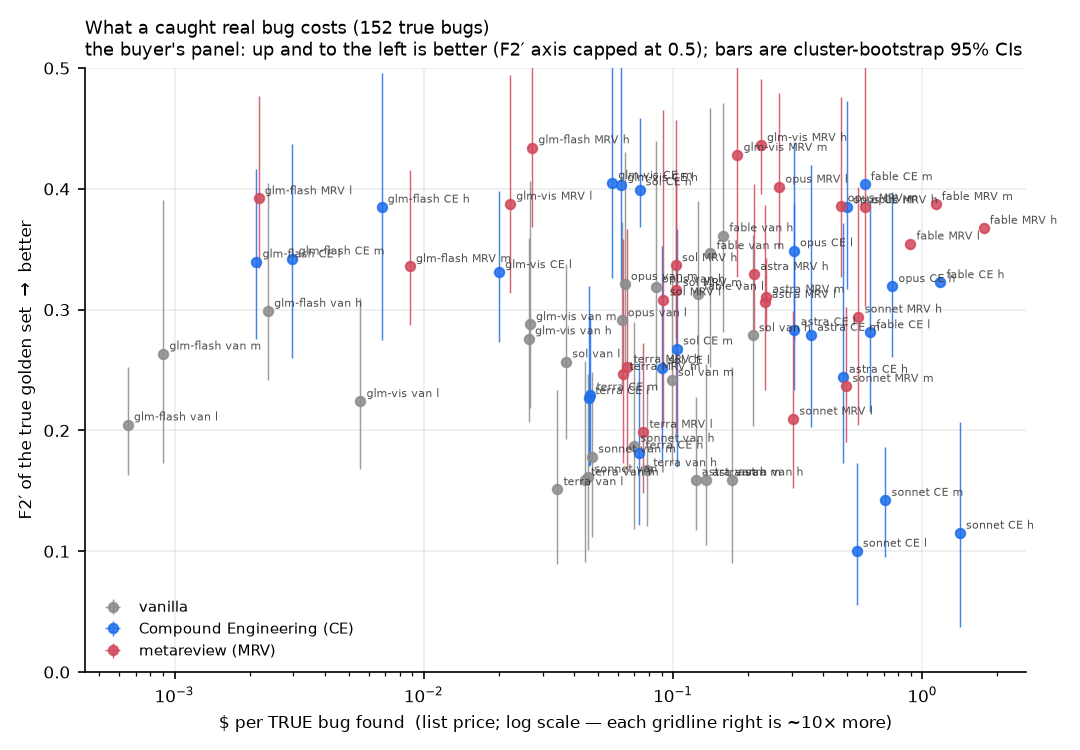
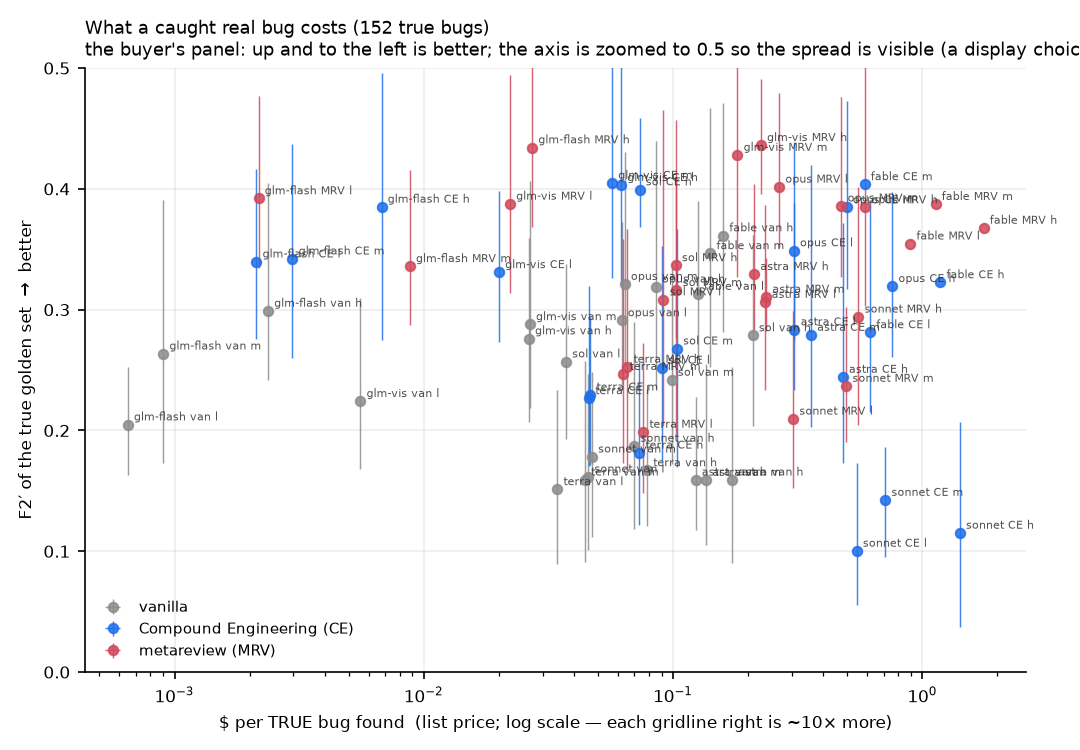
reword the 0.5 axis cap as a zoom, in benefit-oriented language
The old sentence ('the axis is capped at 0.5 because no cell comes close') read as though the tools are bad
and as though 0.5 were a limit on the score. Restated in the dashboard (1a and panel 2) and in the two
reader-facing figure titles: the axis is zoomed to 0.5 so the points spread out instead of being squashed
into the bottom third of a 0-to-1 scale - a display choice, not a limit; 1.0 would mean catching all 152 real
bugs with no noise, and the best setup reaches 0.44, which is the best of a deliberately hard field (the 152
come from every bug the whole campaign found, not from what a single review could be expected to catch).

Verified: no 'capped at 0.5' phrasing remains in the dashboard or figure titles.

Changed region(s): [[0.4583, 0.0307, 1.0, 0.092]]

diff --git a/analysis/figures/interactive_dashboard.html b/analysis/figures/interactive_dashboard.html
@@ -83,7 +83,11 @@
       <b>finding real bugs</b> and penalises it for <b>noise</b>. "Real bugs" = the true golden set: 42 Martian
       goldens + 110 defects we verified by hand (152 total). "Noise" = claims the adjudicator rejected, plus
       nitpicks. A <b>missed bug counts 4× as much as a false alarm</b>, which is why the score is <b>F2′</b> and
-      not the more familiar F1. Higher is better; the axis is capped at 0.5 because no cell comes close.
+      not the more familiar F1. <b>Higher is better, and the chart is zoomed in so you can actually see the differences.</b> The y-axis
+      stops at 0.5 so the points spread out, instead of being squashed into the bottom third of a 0-to-1 scale —
+      it is a zoom level, not a limit on the score. A 1.0 would mean catching all 152 real bugs and raising no
+      noise at all; the best setup here reaches 0.44, which is the best of a deliberately hard field (the 152
+      come from every bug the whole campaign found, not from what one review could be expected to catch).
       Plain-language definition: REPORT_FINAL §10d.<br>
       x = metered $ per PR review (log) — how much a single review costs. One point per cell (66 complete top-6
       cells). Color = model; shape = harness (○ van, □ CE, △ MRV). <b>Hover</b> for the value + CI; <b>click</b> a point for the full cell card below; <b>double-click</b> a legend entry to isolate a model. CIs off by default.</div>
@@ -140,7 +144,7 @@
 
   <div class="panel">
     <h2>2 · Effort ladder — quality vs cost as effort rises</h2>
-    <div class="note">One line per model (color) with points at low → medium → high (left to right); when <b>All harnesses</b> is selected, marker shape distinguishes the harness (○ vanilla, □ Compound Engineering (ce), △ metareview (mrv)). Up and to the left is better: the higher a point sits, the better its F2′ (recall weighted 4:1 over the true golden set) and the further left the cheaper it is per run. The y-axis is capped at 0.5 so the spread is readable. (The x-axis is logarithmic: each gridline to the right costs roughly 10× more.) Hover points for details.</div>
+    <div class="note">One line per model (color) with points at low → medium → high (left to right); when <b>All harnesses</b> is selected, marker shape distinguishes the harness (○ vanilla, □ Compound Engineering (ce), △ metareview (mrv)). Up and to the left is better: the higher a point sits, the better its F2′ (recall weighted 4:1 over the true golden set) and the further left the cheaper it is per run. The y-axis is zoomed to 0.5 so the differences between setups are visible — a zoom, not a limit: a perfect 1.0 would mean catching all 152 real bugs with no noise, and the best setup reaches 0.44. (The x-axis is logarithmic: each gridline to the right costs roughly 10× more.) Hover points for details.</div>
     <div class="controls"><label>harness <select id="fwsel"></select></label></div>
     <div id="chart2"></div>
   </div>

diff --git a/tools/final_report_html.py b/tools/final_report_html.py
@@ -227,7 +227,11 @@ HTML = """<!DOCTYPE html>
       <b>finding real bugs</b> and penalises it for <b>noise</b>. "Real bugs" = the true golden set: 42 Martian
       goldens + 110 defects we verified by hand (152 total). "Noise" = claims the adjudicator rejected, plus
       nitpicks. A <b>missed bug counts 4× as much as a false alarm</b>, which is why the score is <b>F2′</b> and
-      not the more familiar F1. Higher is better; the axis is capped at 0.5 because no cell comes close.
+      not the more familiar F1. <b>Higher is better, and the chart is zoomed in so you can actually see the differences.</b> The y-axis
+      stops at 0.5 so the points spread out, instead of being squashed into the bottom third of a 0-to-1 scale —
+      it is a zoom level, not a limit on the score. A 1.0 would mean catching all 152 real bugs and raising no
+      noise at all; the best setup here reaches 0.44, which is the best of a deliberately hard field (the 152
+      come from every bug the whole campaign found, not from what one review could be expected to catch).
       Plain-language definition: REPORT_FINAL §10d.<br>
       x = metered $ per PR review (log) — how much a single review costs. One point per cell (66 complete top-6
       cells). Color = model; shape = harness (○ van, □ CE, △ MRV). <b>Hover</b> for the value + CI; <b>click</b> a point for the full cell card below; <b>double-click</b> a legend entry to isolate a model. CIs off by default.</div>
@@ -284,7 +288,7 @@ HTML = """<!DOCTYPE html>
 
   <div class="panel">
     <h2>2 · Effort ladder — quality vs cost as effort rises</h2>
-    <div class="note">One line per model (color) with points at low → medium → high (left to right); when <b>All harnesses</b> is selected, marker shape distinguishes the harness (○ vanilla, □ Compound Engineering (ce), △ metareview (mrv)). Up and to the left is better: the higher a point sits, the better its F2′ (recall weighted 4:1 over the true golden set) and the further left the cheaper it is per run. The y-axis is capped at 0.5 so the spread is readable. (The x-axis is logarithmic: each gridline to the right costs roughly 10× more.) Hover points for details.</div>
+    <div class="note">One line per model (color) with points at low → medium → high (left to right); when <b>All harnesses</b> is selected, marker shape distinguishes the harness (○ vanilla, □ Compound Engineering (ce), △ metareview (mrv)). Up and to the left is better: the higher a point sits, the better its F2′ (recall weighted 4:1 over the true golden set) and the further left the cheaper it is per run. The y-axis is zoomed to 0.5 so the differences between setups are visible — a zoom, not a limit: a perfect 1.0 would mean catching all 152 real bugs with no noise, and the best setup reaches 0.44. (The x-axis is logarithmic: each gridline to the right costs roughly 10× more.) Hover points for details.</div>
     <div class="controls"><label>harness <select id="fwsel"></select></label></div>
     <div id="chart2"></div>
   </div>

diff --git a/tools/final_report_figures_true_gold.py b/tools/final_report_figures_true_gold.py
@@ -81,7 +81,7 @@ scatter(ax, "F2p", "flo", "fhi", "recall", "rlo", "rhi")
 ax.set_xlabel("F2′  (recall-weighted 4:1, nitpick-charged precision)  →  better\n"
               "our chosen evaluator: a missed bug costs 4× a false alarm, which is what we claim to believe")
 ax.set_ylabel("recall of the true golden set  (152 = 42 goldens + 110 verified defects)  →  better")
-ax.set_title("True-gold frontier (152 true bugs): recall vs F2′, our evaluator\n"
+ax.set_title("True-gold frontier (152 true bugs): recall vs F2′, our evaluator (axis zoomed to 0.5)\n"
              "each point is one (model, framework, effort) cell; bars are cluster-bootstrap 95% CIs",
              fontsize=8.5, loc="left")
 ax.set_xlim(0, 0.5)
@@ -100,8 +100,9 @@ ax.set_xlabel("$ per TRUE bug found  (list price; log scale — each gridline ri
 ax.set_ylabel("F2′ of the true golden set  →  better")
 ax.set_ylim(0, 0.5)
 ax.set_title("What a caught real bug costs (152 true bugs)\n"
-             "the buyer's panel: up and to the left is better (F2′ axis capped at 0.5); bars are "
-             "cluster-bootstrap 95% CIs", fontsize=8.5, loc="left")
+             "the buyer's panel: up and to the left is better; the axis is zoomed to 0.5 so the spread is "
+             "visible (a display choice, not a limit on the score); bars are cluster-bootstrap 95% CIs",
+             fontsize=8.5, loc="left")
 ax.legend(loc="lower left", frameon=False, fontsize=7)
 fig.tight_layout()
 fig.savefig(f"{FIG}/fig_true_gold_efficiency.png")
